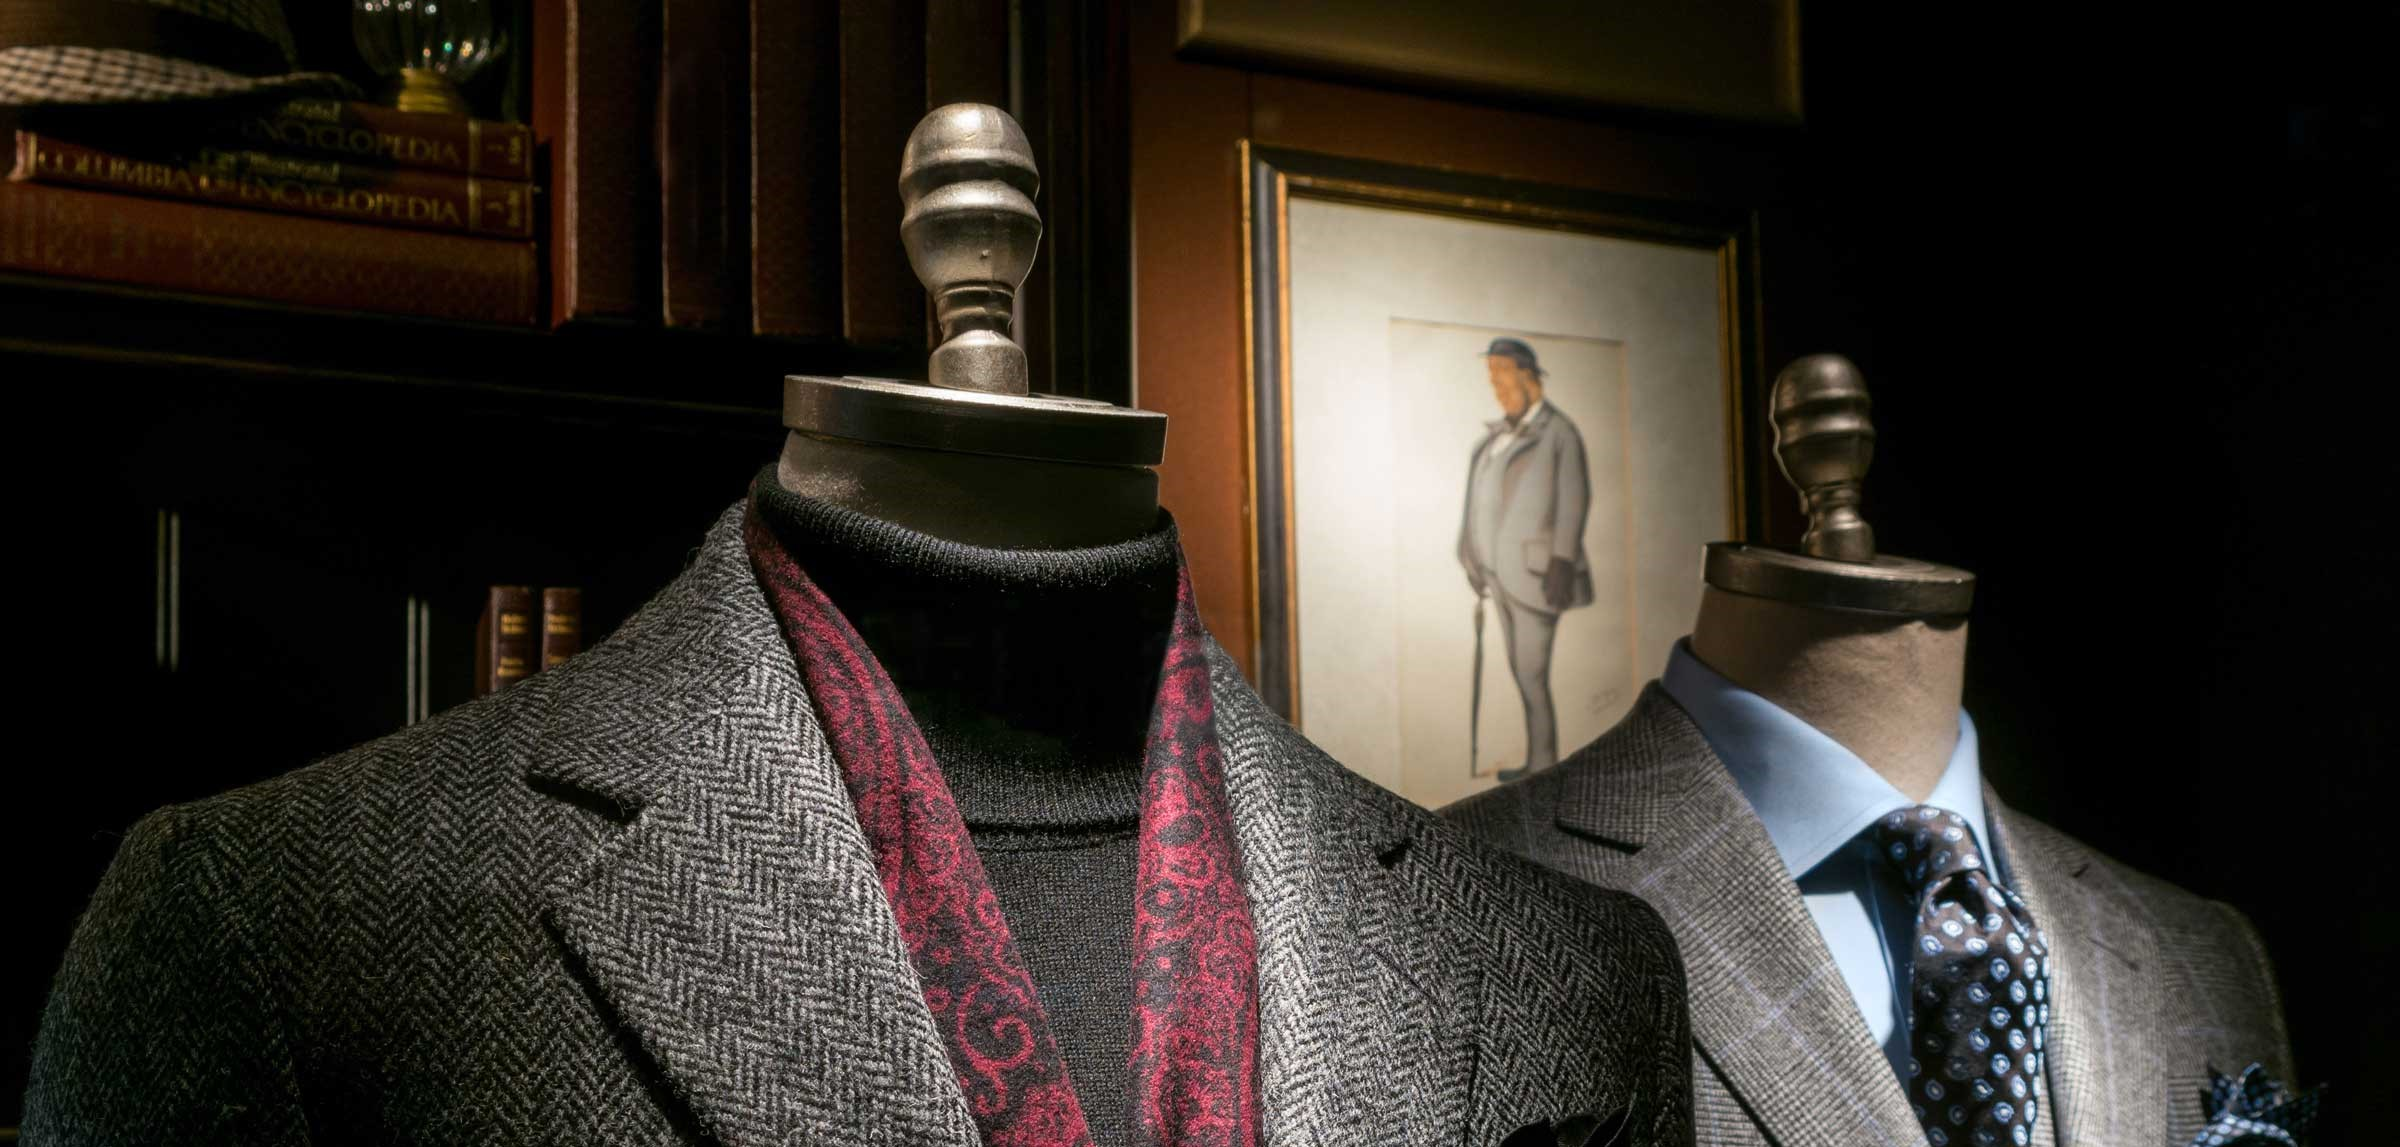
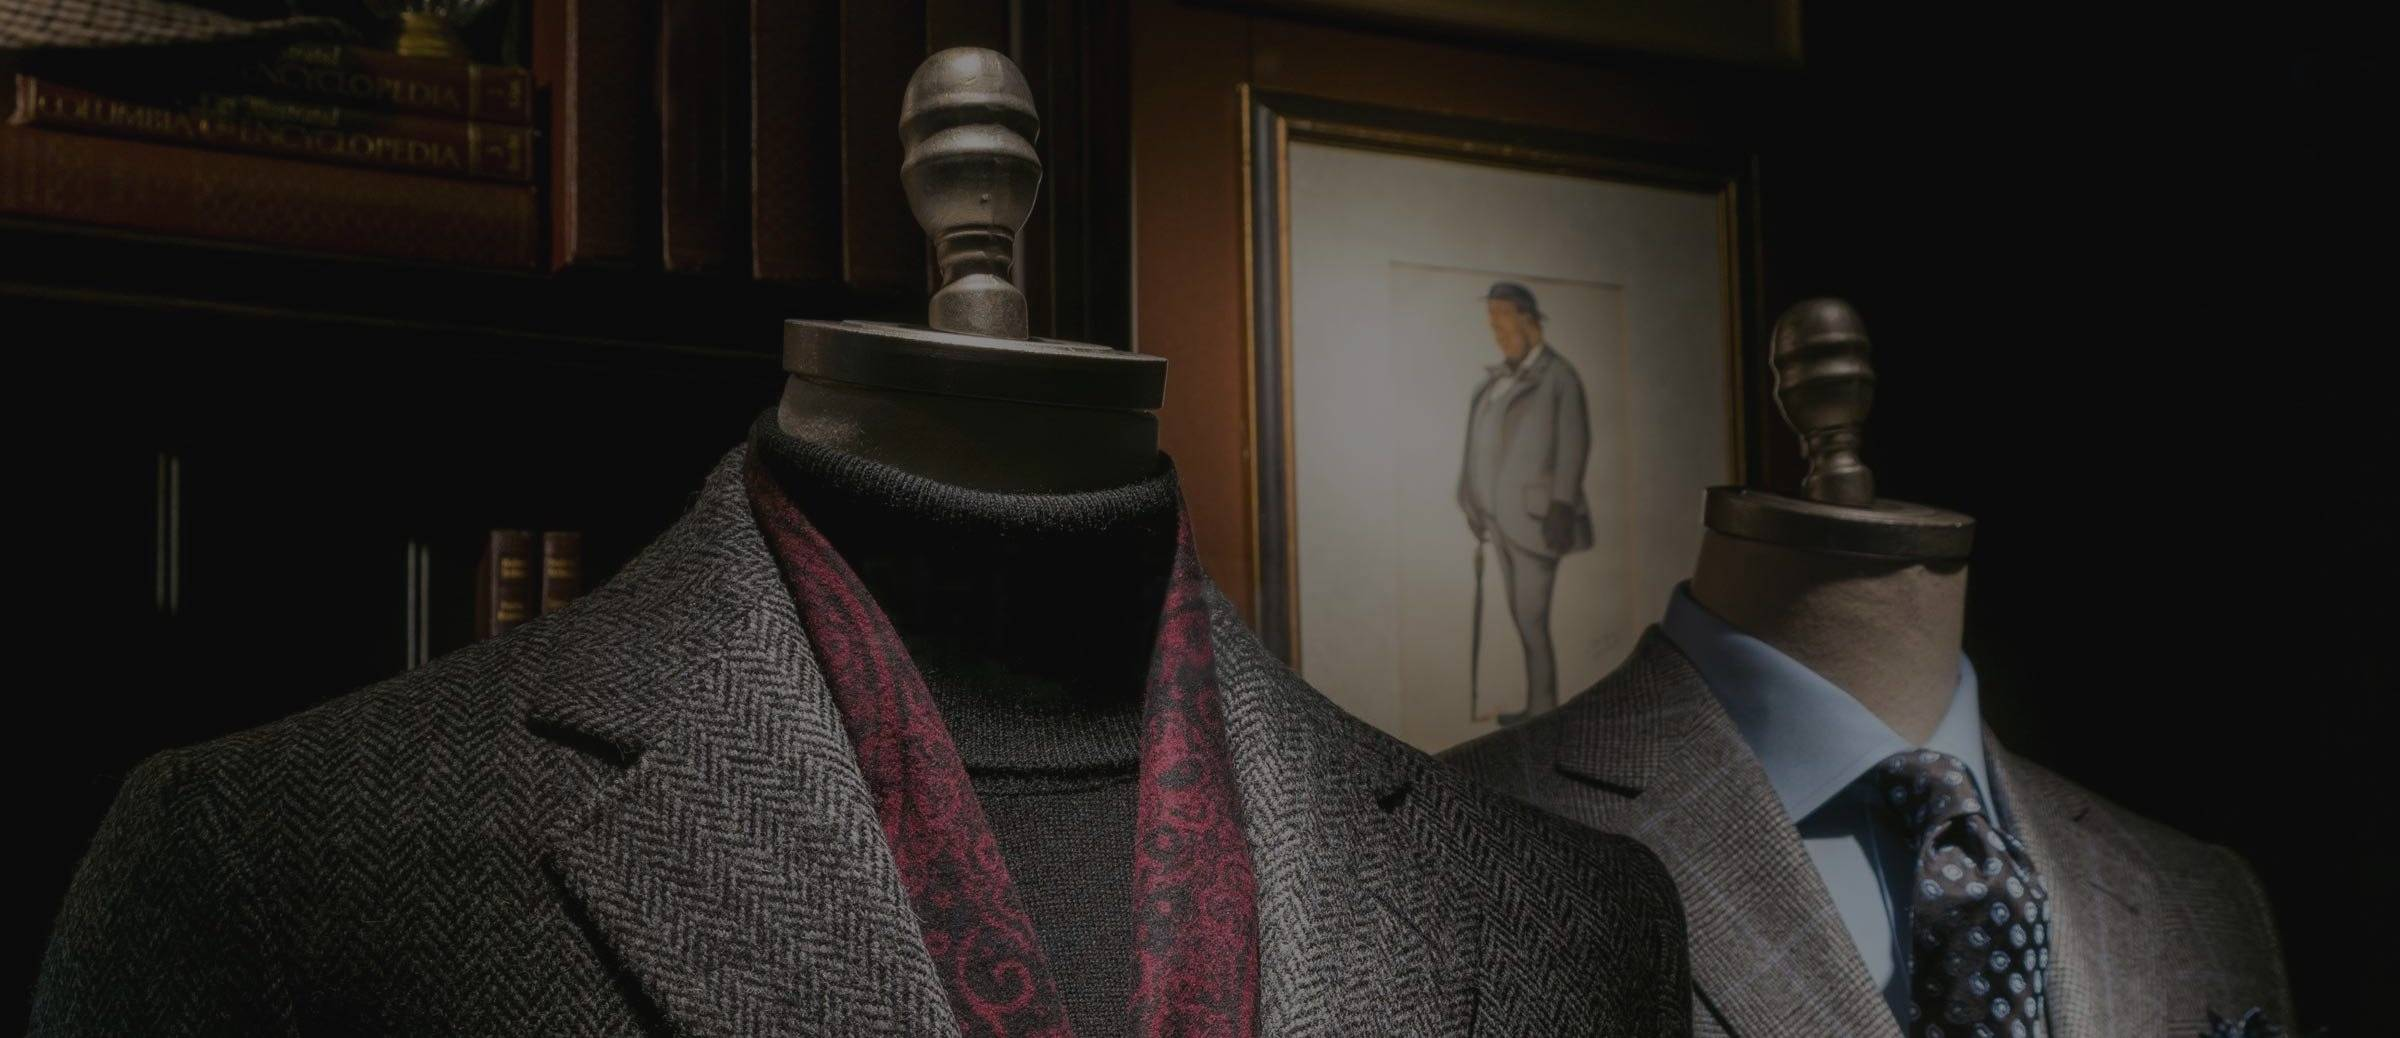
slider done

diff --git a/src/Component/Pages/Home/Home.js b/src/Component/Pages/Home/Home.js
@@ -5,7 +5,7 @@ const Home = () => {
         <div className=' w-full'>
 
 
-            <div id="carouselExampleCaptions" className="carousel slide relative" data-bs-ride="carousel">
+            <div id="carouselExampleCaptions" className="carousel slide relative border-y-8 border-yellow-600" data-bs-ride="carousel">
                 <div className="carousel-indicators absolute right-0 bottom-0 left-0 flex justify-center p-0 mb-4">
                     <button
                         type="button"
@@ -26,25 +26,25 @@ const Home = () => {
                 <div className="carousel-inner relative overflow-hidden w-full">
                     <div className="carousel-item active relative float-left w-full">
                         <img
-                            src="https://i.ibb.co/r7MX4Yg/slide-1.jpg"
+                            src="https://i.ibb.co/yNm2ttQ/slide-1.jpg"
                             className="block w-full" 
                             alt="..."
                         />
-                        <div className="carousel-caption hidden md:block absolute text-center">
-                            <h5 className="text-xl">First slide label</h5>
-                            <p>Some representative placeholder content for the first slide.</p>
+                        <div className="carousel-caption hidden md:block absolute">
+                            <h5 className="text-6xl -indent-8 border-l-4 font-bold py-3">THE CLASSIC TUX IS <br /> NEVER OUT OF STYLE</h5>
+                            <p className='font-semibold'>In the end, when a man puts on a tuxedo, he feels special.</p>
                         </div>
                     </div>
                     <div className="carousel-item relative float-left w-full">
                         <img
-                            src="https://i.ibb.co/M8J78NB/post-11-1-1.jpg"
+                            src="https://i.ibb.co/b3HHKtj/slide-2.jpg"
                             className="block w-full" 
                             // style={{height: '1100px'}}
                             alt="..."
                         />
                         <div className="carousel-caption hidden md:block absolute text-center">
-                            <h5 className="text-xl">Second slide label</h5>
-                            <p>Some representative placeholder content for the second slide.</p>
+                            <h5 className="text-6xl -indent-8 border-l-4 font-bold py-3">LEATHER & SUEDE</h5>
+                            <p className='font-semibold'>Most commonly, it comes from sheep, but also from deer, goats and calves.</p>
                         </div>
                     </div>
                     
